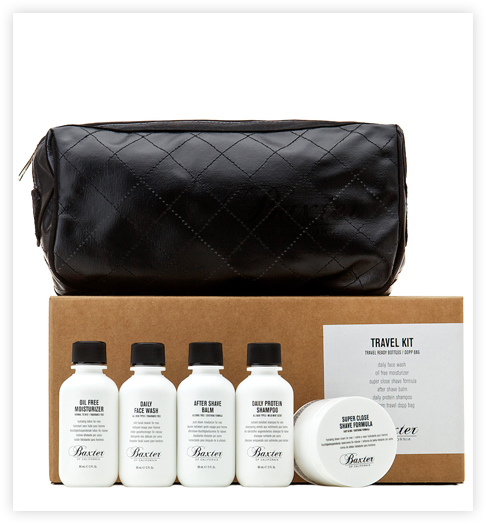
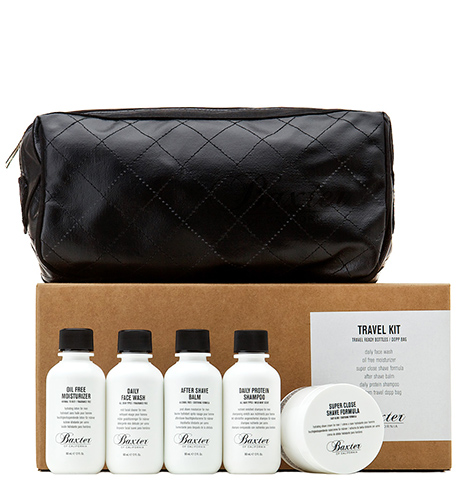
Исправления

diff --git a/catalog.html b/catalog.html
@@ -57,27 +57,49 @@
           <form action="#" method="get">
             <div class="producers">
               <h2>производители:</h2>
-              <input type="checkbox" name="first-producers" id="first-producers-field" checked>
-              <label for="first-producers-field">baxter of california</label><br>
-              <input type="checkbox" name="second-producers" id="second-producers-field">
-              <label for="second-producers-field">mr natty</label><br>
-              <input type="checkbox" name="third-producers" id="third-producers-field" checked>
-              <label for="third-producers-field">suavecito</label><br>
-              <input type="checkbox" name="fourth-producers" id="fourth-producers-field">
-              <label for="fourth-producers-field">malin+goetz</label><br>
-              <input type="checkbox" name="fifth-producers" id="fifth-producers-field">
-              <label for="fifth-producers-field">murray's</label><br>
-              <input type="checkbox" name="sixth-producers" id="sixth-producers-field" checked>
-              <label for="sixth-producers-field">american crew</label><br>
+              <ul>
+                <li>
+                  <input type="checkbox" name="first-producers" id="first-producers-field" checked>
+                  <label for="first-producers-field">baxter of california</label>
+                </li>
+                <li>
+                  <input type="checkbox" name="second-producers" id="second-producers-field">
+                  <label for="second-producers-field">mr natty</label>
+                </li>
+                <li>
+                  <input type="checkbox" name="third-producers" id="third-producers-field" checked>
+                  <label for="third-producers-field">suavecito</label>
+                </li>
+                <li>
+                  <input type="checkbox" name="fourth-producers" id="fourth-producers-field">
+                  <label for="fourth-producers-field">malin+goetz</label>
+                </li>
+                <li>
+                  <input type="checkbox" name="fifth-producers" id="fifth-producers-field">
+                  <label for="fifth-producers-field">murray's</label>
+                </li>
+                <li>
+                  <input type="checkbox" name="sixth-producers" id="sixth-producers-field" checked>
+                  <label for="sixth-producers-field">american crew</label>
+                </li>
+              </ul>
             </div>
             <div class="productgroup">
               <h2>группы товаров:</h2>
-              <input type="checkbox" name="first-productgroup" id="first-productgroup-fialed">
-              <label for="first-productgroup-fialed">бритвенные принадлежности</label><br>
-              <input type="checkbox" name="second-productgroup" id="second-productgroup-fialed" checked>
-              <label for="second-productgroup-fialed">средства для ухода</label><br>
-              <input type="checkbox" name="third-productgroup" id="third-productgroup-fialed">
-              <label for="third-productgroup-fialed">аксессуары</label><br>
+              <ul>
+                <li>
+                  <input type="checkbox" name="first-productgroup" id="first-productgroup-fialed">
+                  <label for="first-productgroup-fialed">бритвенные принадлежности</label>
+                </li>
+                <li>
+                  <input type="checkbox" name="second-productgroup" id="second-productgroup-fialed" checked>
+                  <label for="second-productgroup-fialed">средства для ухода</label>
+                </li>
+                <li>
+                  <input type="checkbox" name="third-productgroup" id="third-productgroup-fialed">
+                  <label for="third-productgroup-fialed">аксессуары</label>
+                </li>
+              </ul>
             </div>
             <button class="btn" type="submit">показать</button>
           </form>

diff --git a/catalog-item.html b/catalog-item.html
@@ -59,17 +59,17 @@
         <div class="left-section">
           <div class="all-image">
             <div class="main-image">
-              <img src="img\main-image.jpg" width="486" height="524" alt="Набор для путешествий">
+              <img src="img\main-image.jpg" width="460" height="498" alt="Набор для путешествий">
             </div>
             <div class="preview">
               <div class="first-preview">
-                <img src="img\first-preview.jpg" width="166" height="175" alt="Набор для путешествий">
+                <img src="img\first-preview.jpg" width="140" height="149" alt="Набор для путешествий">
               </div>
               <div class="second-preview">
-                <img src="img\second-preview.jpg" width="166" height="175" alt="Набор для путешествий">
+                <img src="img\second-preview.jpg" width="140" height="149" alt="Набор для путешествий">
               </div>
               <div class="third-preview">
-                <img src="img\third-preview.jpg" width="166" height="175" alt="Набор для путешествий">
+                <img src="img\third-preview.jpg" width="140" height="149" alt="Набор для путешествий">
               </div>
             </div>
           </div>
